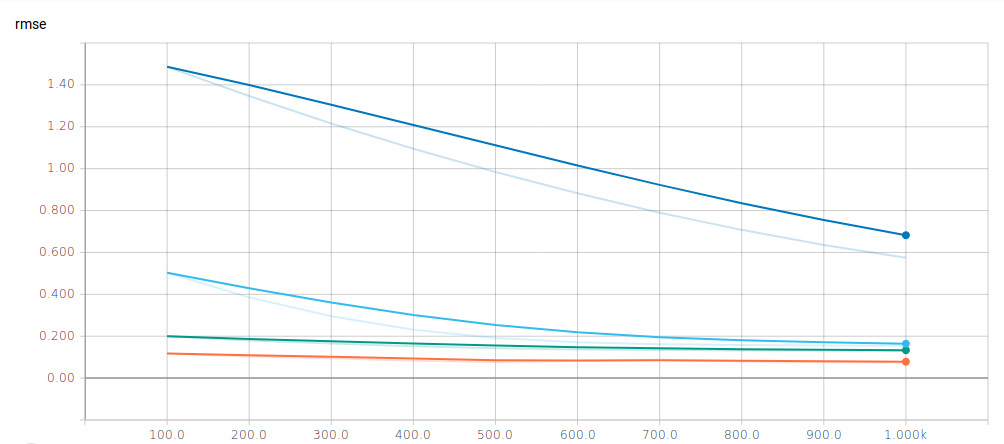
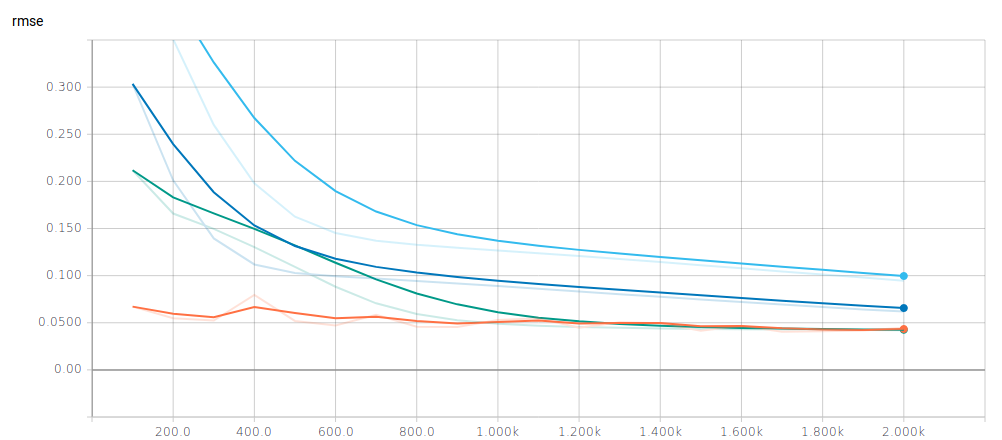
Update results

diff --git a/python/custom_estimator.py b/python/custom_estimator.py
@@ -21,7 +21,7 @@ flags.DEFINE_integer("steps",
                      default=100,
                      help="Number of steps.")
 flags.DEFINE_integer("checkpoints",
-                     default=10,
+                     default=20,
                      help="Number of checkpoints.")
 flags.DEFINE_string("model",
                     default="baseline",

diff --git a/README.md b/README.md
@@ -54,35 +54,35 @@ The good performance of the neural networks at minimizing the
   </tr>
   <tr>
     <td><a href="https://github.com/jruizvar/ml-physics/blob/regression/python/custom_models.py#L6-L13">Baseline</a></td>
-    <td>0.574</td>
-    <td>0.488</td>
-    <td>0.363</td>
+    <td>0.141</td>
+    <td>0.062</td>
+    <td>0.042</td>
   </tr>
   <tr>
     <td><a href="https://github.com/jruizvar/ml-physics/blob/regression/python/custom_models.py#L20-L27">Linear reg.</a></td>
-    <td>0.155</td>
-    <td>0.126</td>
-    <td>0.140</td>
+    <td>0.142</td>
+    <td>0.095</td>
+    <td>0.101</td>
   </tr>
   <tr>
     <td><a href="https://github.com/jruizvar/ml-physics/blob/regression/python/custom_models.py#L30-L45">Shallow NN</a></td>
-    <td>0.130</td>
-    <td>0.044</td>
-    <td>0.039</td>
+    <td>0.070</td>
+    <td>0.042</td>
+    <td>0.036</td>
   </tr>
   <tr>
     <td><a href="https://github.com/jruizvar/ml-physics/blob/regression/python/custom_models.py#L48-L83">Convolutional NN</a></td>
-    <td>0.076</td>
-    <td>0.046</td>
-    <td>0.041</td>
+    <td>0.079</td>
+    <td>0.045</td>
+    <td>0.038</td>
   </tr>
 </table>
 
 ## Learning Curve
 The evolution of the [RMSE](python/custom_estimator.py#L58) calculated for the
-validation sample is shown below.
+validation sample is shown below, for the scenario with 0 GeV threshold.
 The horizonal axis represents the number of [steps](python/custom_estimator.py#L80).
-One epoch is equivalent to 100 steps, and the plot extends up to 10 epochs.
+One epoch is equivalent to 100 steps, and the plot extends up to 20 epochs.
 From top to bottom, the curves correspond to the baseline model, linear regression,
 shallow NN and convolutional NN.
 
@@ -108,7 +108,7 @@ CMS electromagnetic calorimeter.
 [tf.estimator](https://www.tensorflow.org/api_docs/python/tf/estimator) API.
 
 Examples of usage:
-- `python custom_estimator.py --model baseline --threshold 0.`
-- `python custom_estimator.py --model linear_reg --threshold 0.`
-- `python custom_estimator.py --model nn --threshold 0.`
-- `python custom_estimator.py --model cnn --threshold 0.`
+- `python custom_estimator.py --threshold 0. --model baseline`
+- `python custom_estimator.py --threshold 0. --model linear_reg`
+- `python custom_estimator.py --threshold 0. --model nn`
+- `python custom_estimator.py --threshold 0. --model cnn`
